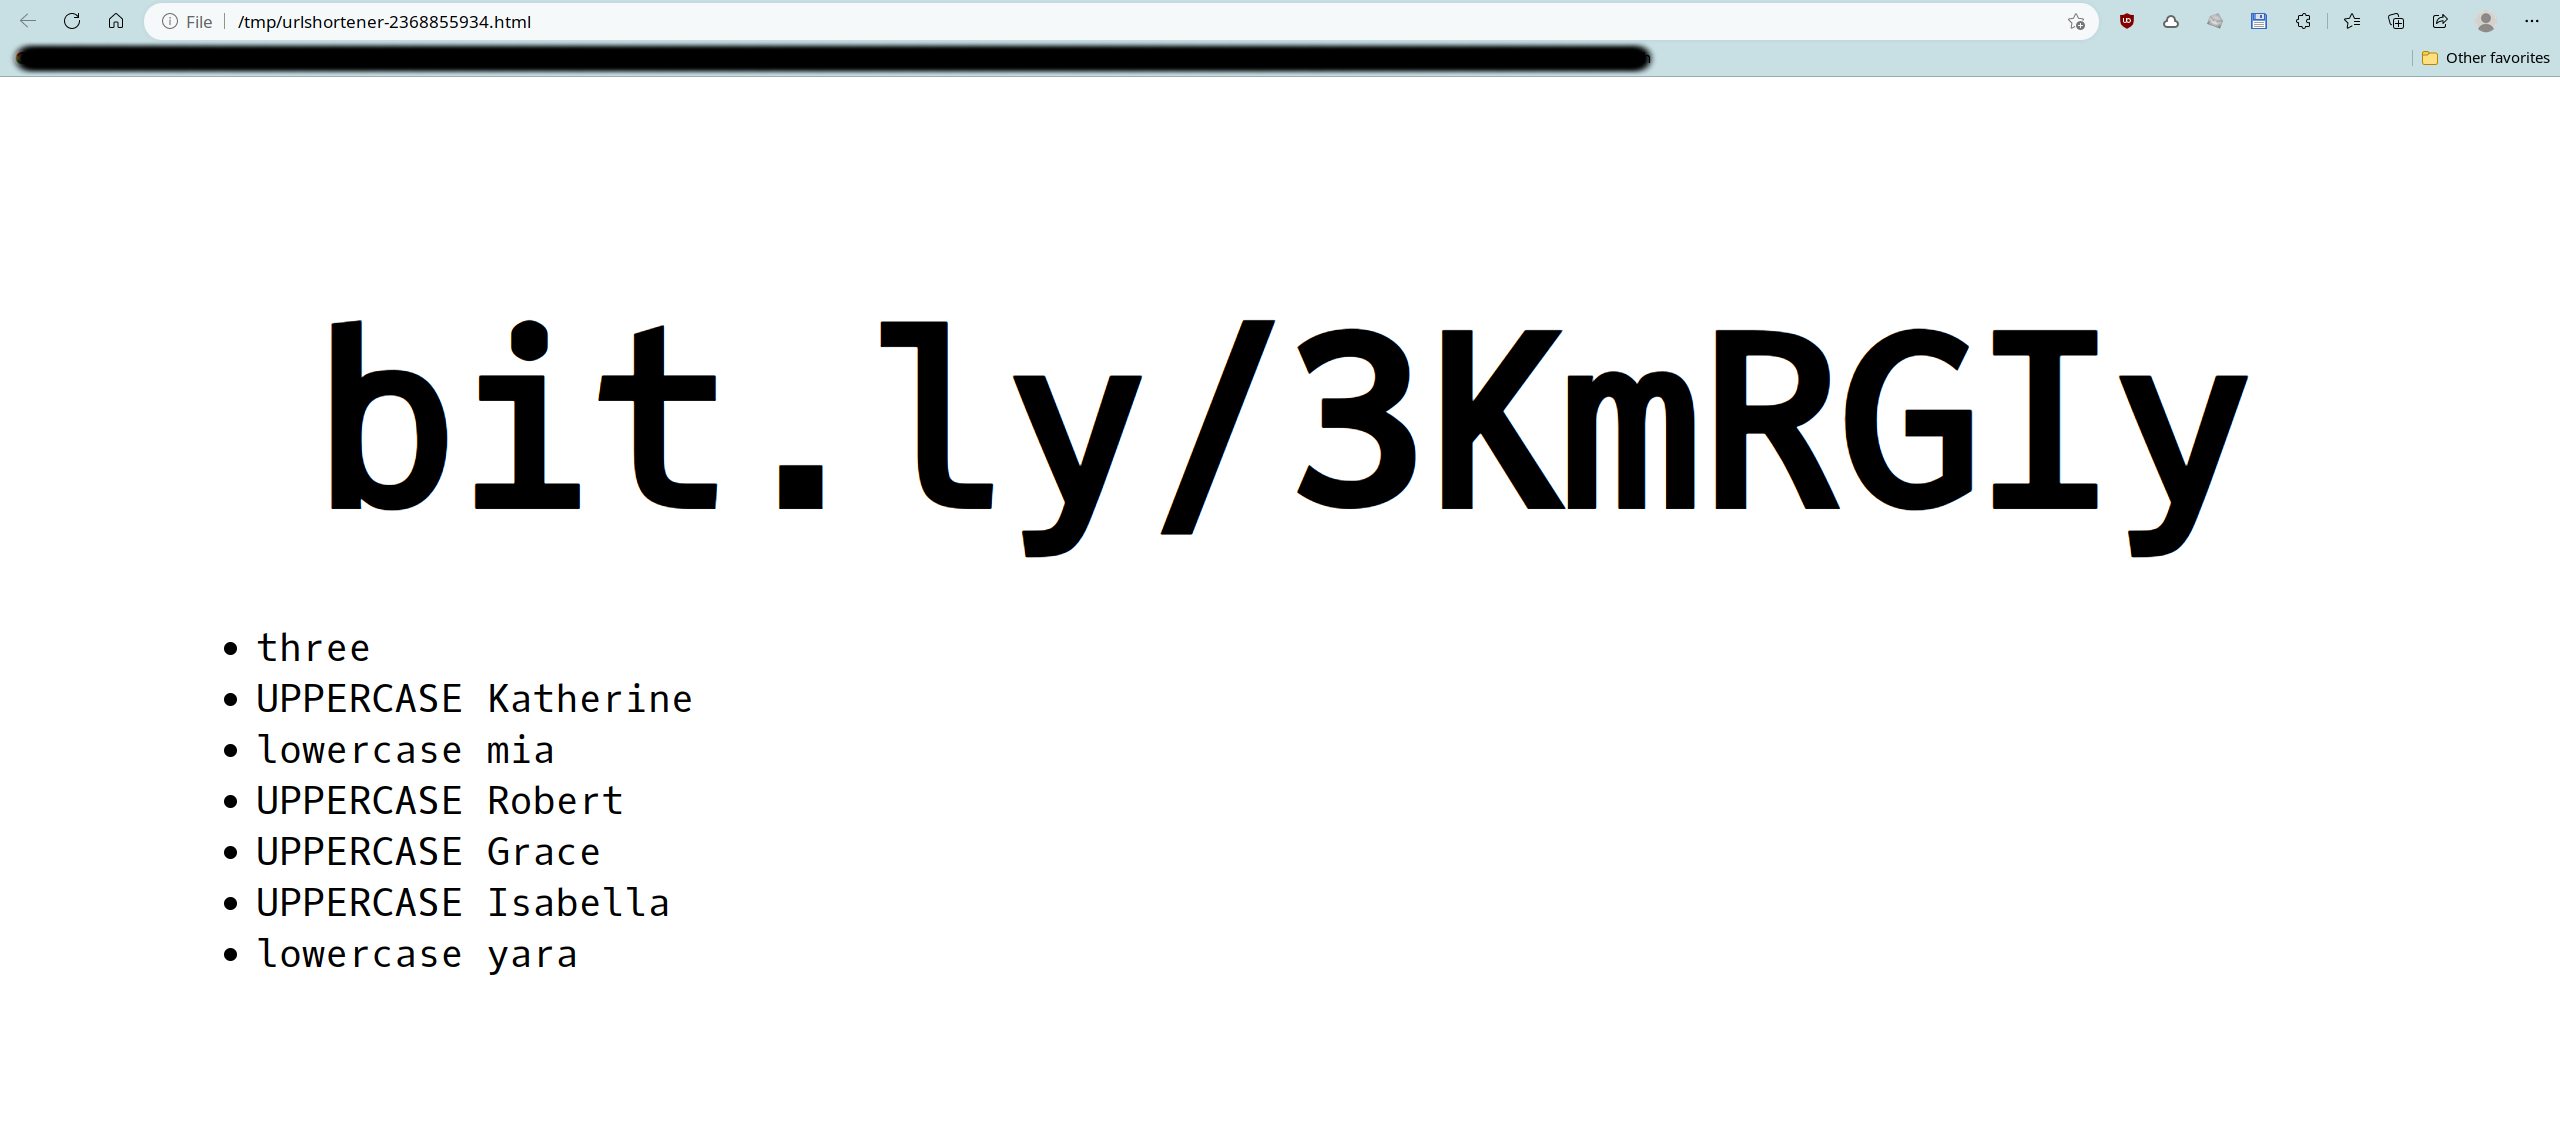
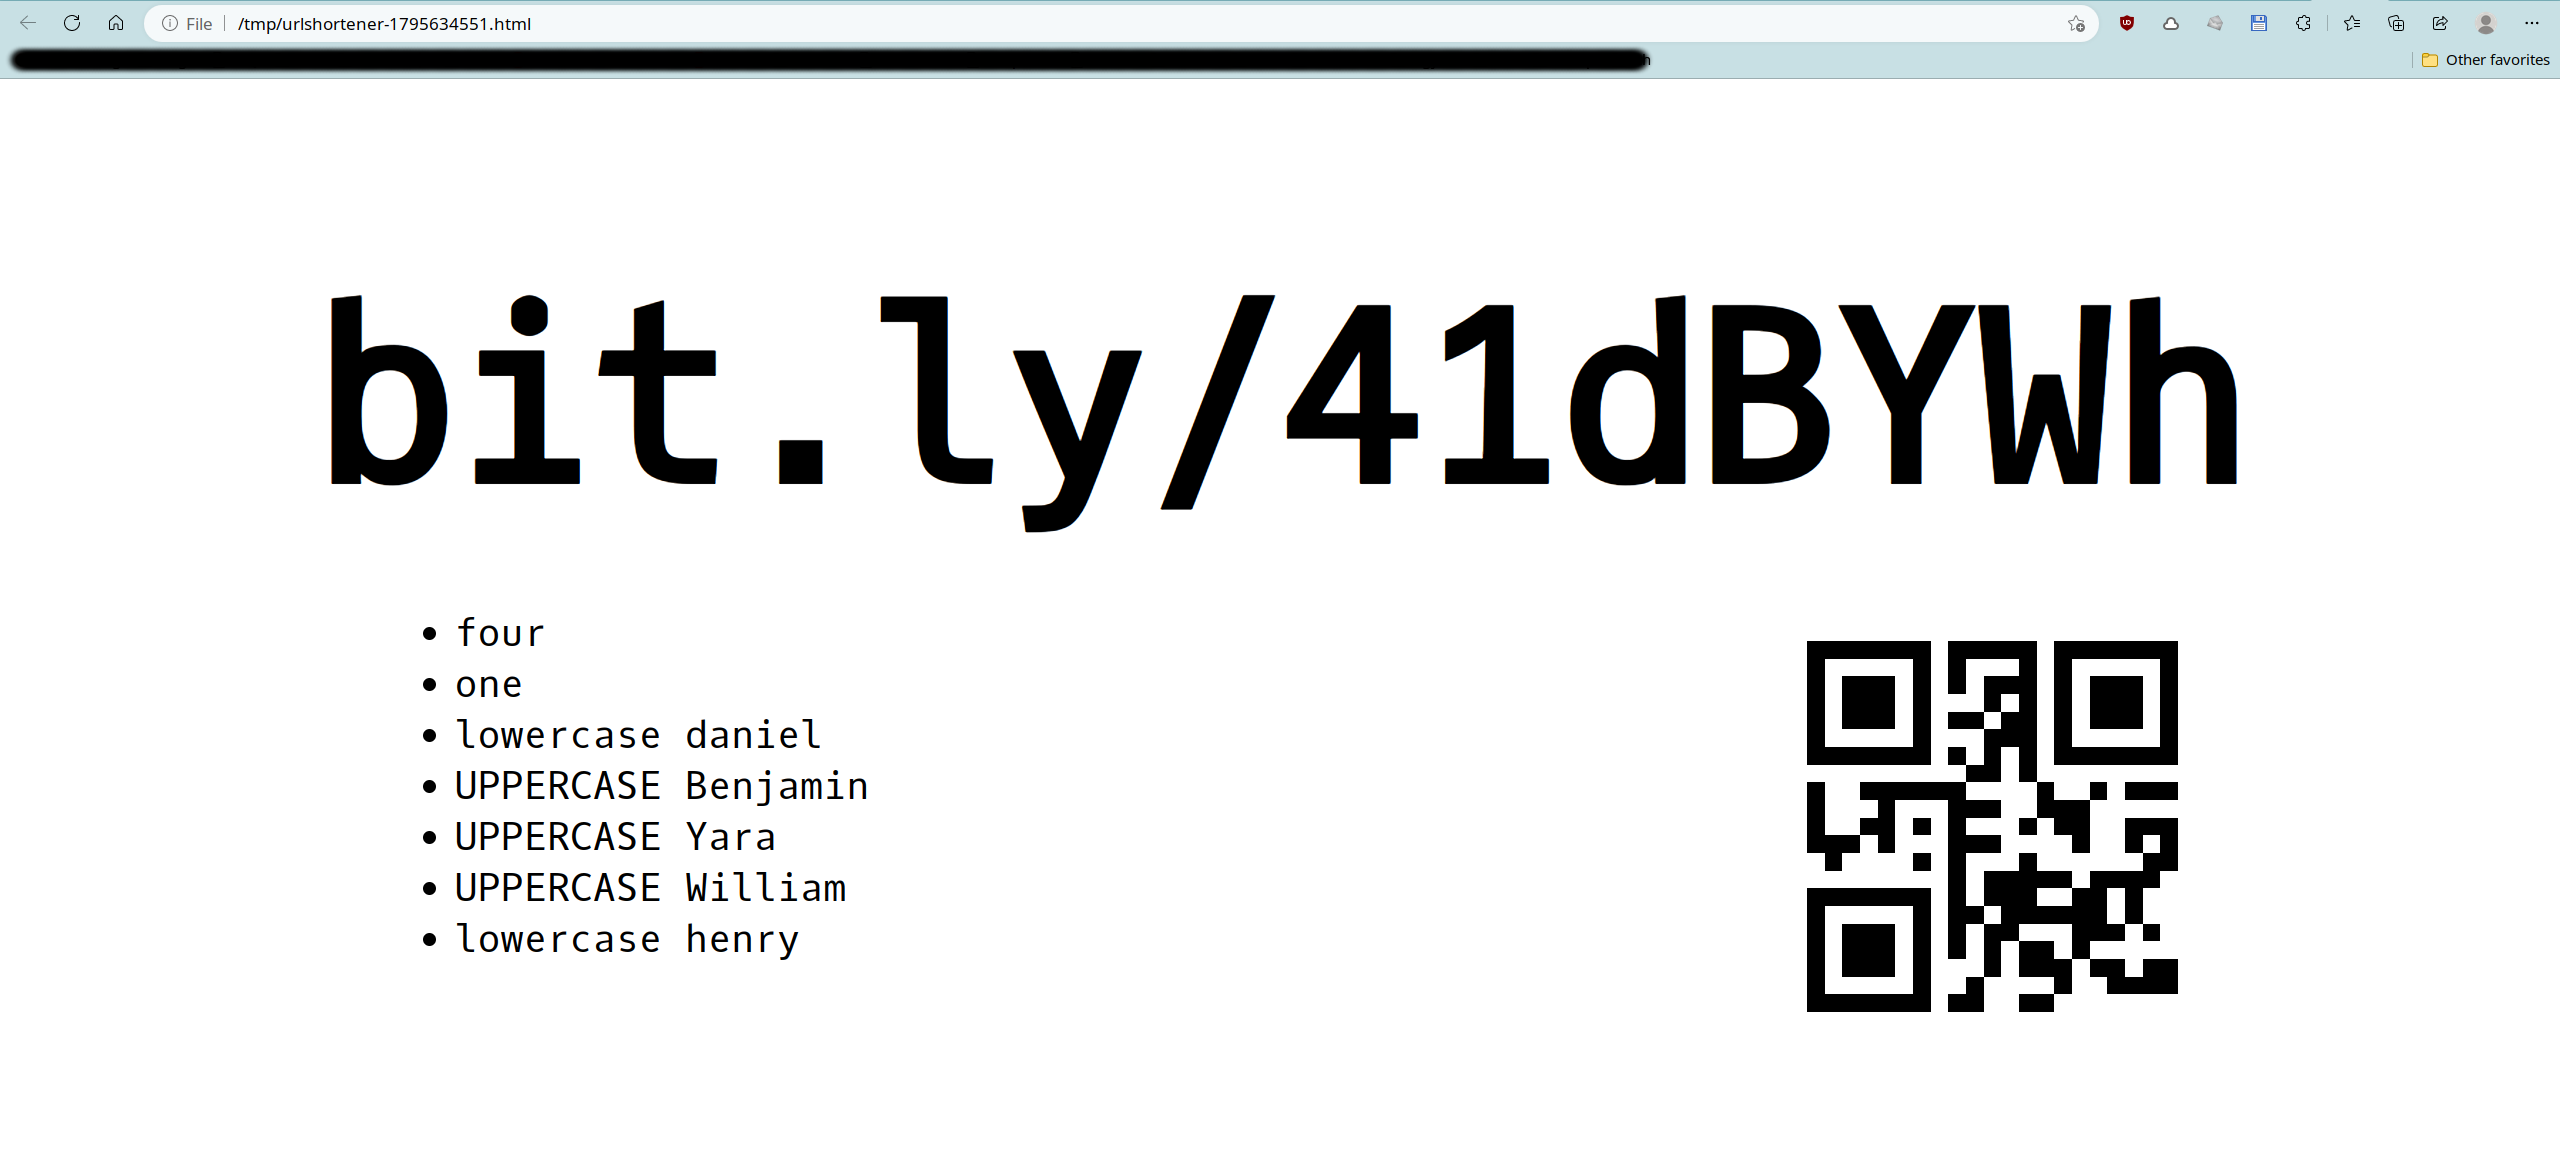
QR code support

diff --git a/templates/zoom.html b/templates/zoom.html
@@ -14,7 +14,8 @@
 
 		h1 {
 			margin-top: 8%;
-			margin-bottom: 10px; /* add some bottom margin */
+			margin-bottom: 10px;
+			/* add some bottom margin */
 			font-size: 9vw;
 			font-family: 'Oxygen Mono', monospace;
 			text-align: center;
@@ -31,16 +32,46 @@
 			src: url('https://fonts.googleapis.com/css2?family=Oxygen Mono&display=swap');
 		}
 
+		/* Center the container */
+		#container {
+			display: flex;
+			align-items: center;
+			justify-content: center;
+			height: 80vh;
+		}
+
+		/* Style the row with two columns */
+		.row {
+			display: flex;
+			flex-direction: row;
+		}
+
+		/* Style the left column */
+		.left-column {
+			flex: 1;
+		}
+
 	</style>
 </head>
 
 <body>
-	<h1>{{.Text}}</h1>
-	<ul>
-		{{range $line := .Lines }}
-		<li>{{$line}}</li>
-		{{end}}
-	</ul>
+	<div id="container">
+		<div>
+			<h1>{{.Text}}</h1>
+			<div class="row">
+				<div class="left-column">
+					<ul>
+						{{range $line := .Lines }}
+						<li>{{$line}}</li>
+						{{end}}
+					</ul>
+				</div>
+				<div>
+					<img src="{{.Png}}" alt="QR code">
+				</div>
+			</div>
+		</div>
+	</div>
 </body>
 
 </html>

diff --git a/cmd/urlshortener/main.go b/cmd/urlshortener/main.go
@@ -3,7 +3,9 @@ package main
 import (
 	"bytes"
 	"fmt"
+	"log"
 	"os"
+	"path/filepath"
 	"strings"
 	"text/template"
 
@@ -14,6 +16,7 @@ import (
 	"github.com/jabbalaci/UrlShortener-go/lib/jweb"
 	"github.com/jabbalaci/UrlShortener-go/lib/pronounce"
 	"github.com/jabbalaci/UrlShortener-go/templates"
+	qrcode "github.com/skip2/go-qrcode"
 )
 
 var bold = color.New(color.Bold).PrintlnFunc()
@@ -42,6 +45,16 @@ func copy_to_clipboard(text string) {
 	}
 }
 
+func createQrCode(basename, url string) (string, error) {
+	pngFile := strings.TrimSuffix(basename, ".html") + ".png"
+	err := qrcode.WriteFile(url, qrcode.Medium, 512, pngFile) // 512x512 pixels
+	if err != nil {
+		log.Printf("createQrCode: %v\n", err)
+		return "", err
+	}
+	return pngFile, nil
+}
+
 func zoom_into(url string) {
 	url = strings.TrimPrefix(url, "https://")
 	f, err := os.CreateTemp(os.TempDir(), "urlshortener-*.html")
@@ -53,13 +66,15 @@ func zoom_into(url string) {
 	type Context struct {
 		Text  string
 		Lines []string
+		Png   string
 	}
 
 	id := strings.Split(url, "/")[1]
 	lines := pronounce.Say(id)
+	image_name, _ := createQrCode(f.Name(), url)
 
 	tmpl := template.Must(template.New("html").Parse(templates.ZOOM_HTML))
-	context := Context{url, lines}
+	context := Context{url, lines, filepath.Base(image_name)}
 
 	var buf bytes.Buffer
 	tmpl.Execute(&buf, context)

diff --git a/examples/qrcode/main.go b/examples/qrcode/main.go
@@ -1,0 +1,19 @@
+package main
+
+import (
+	"fmt"
+	"log"
+
+	qrcode "github.com/skip2/go-qrcode"
+)
+
+func main() {
+	url := "https://index.hu"
+
+	pngFile := "/tmp/qr.png"
+	err := qrcode.WriteFile(url, qrcode.Medium, 512, pngFile)
+	if err != nil {
+		log.Printf("createQrCode: %v\n", err)
+	}
+	fmt.Println("END")
+}

diff --git a/README.md b/README.md
@@ -9,6 +9,8 @@ You can use it in interactive mode only.
 
     $ go install github.com/jabbalaci/UrlShortener-go/cmd/urlshortener@latest
 
+It was tested under Linux and Windows.
+
 ## Pre-requisite
 
 For this to work, you need an access token from bit.ly. Don't worry, it's free.
@@ -26,17 +28,17 @@ command `xsel`. You can install it via your package manager.
 ## Usage
 
     $ urlshortener
-    Long URL: https://www.reddit.com
+    Long URL: https://github.com/jabbalaci/UrlShortener-go
 
-    https://bit.ly/3KmRGIy
+    https://bit.ly/41dBYWh
 
-    # expanded from shortened URL: https://www.reddit.com (matches)
+    # expanded from shortened URL: https://github.com/jabbalaci/UrlShortener-go (matches)
 
     Copy shortened URL to clipboard [Yn]? y
     # copied ✓
     Zoom into this short URL [yN]? y
     # yes ✓
-    # written to /tmp/urlshortener-2368855934.html
+    # written to /tmp/urlshortener-1795634551.html
 
 Provide the long URL, and it'll give you back the shortened bit.ly URL.
 
@@ -55,3 +57,5 @@ Screenshot of the local HTML page:
 
 The characters in the funny ID are also pronounced to
 avoid confusion between similar characters like `o`, `O`, `0`, etc.
+
+In addition, there's also a QR code pointing on your URL.
